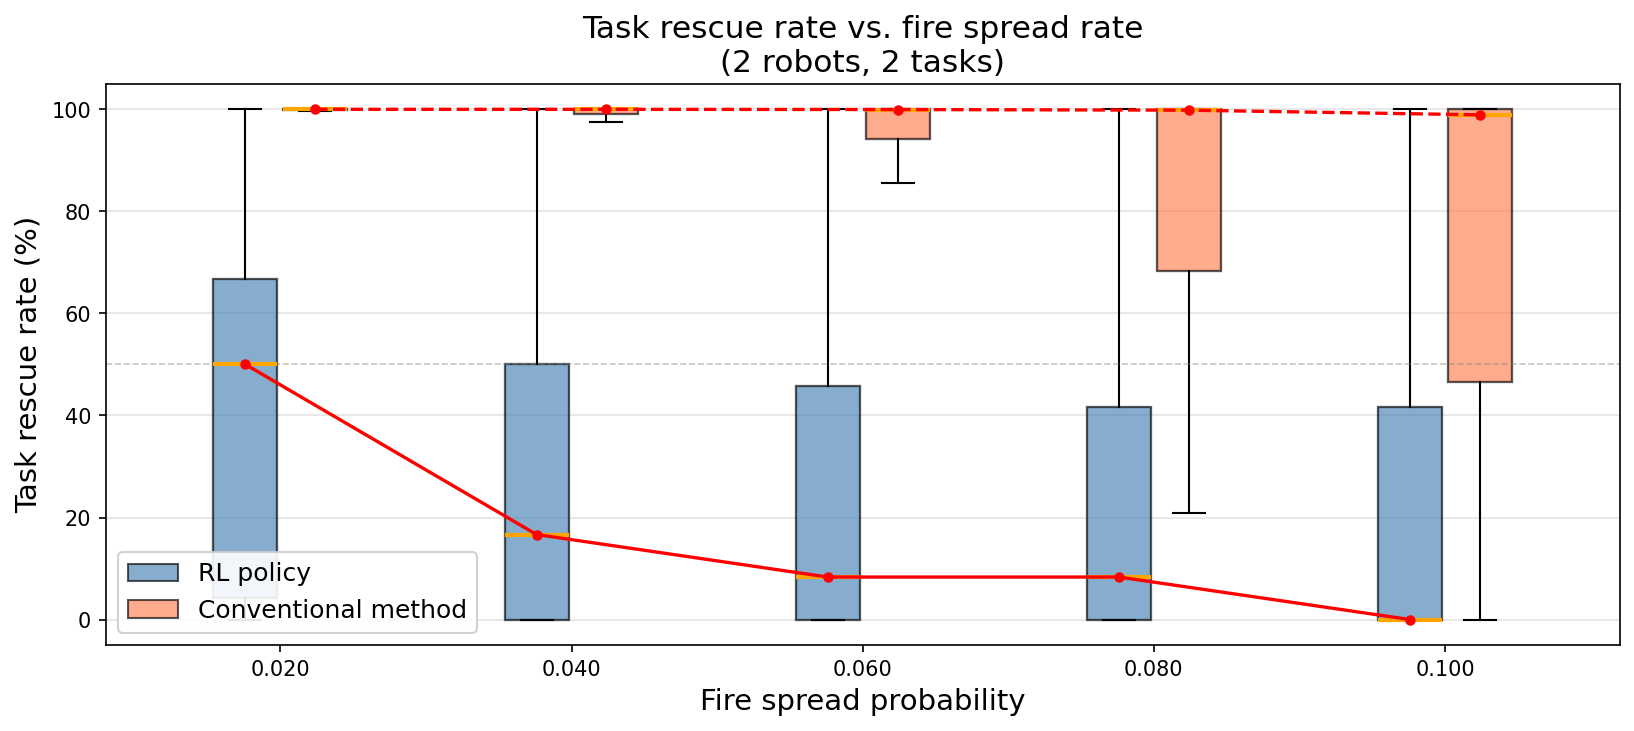
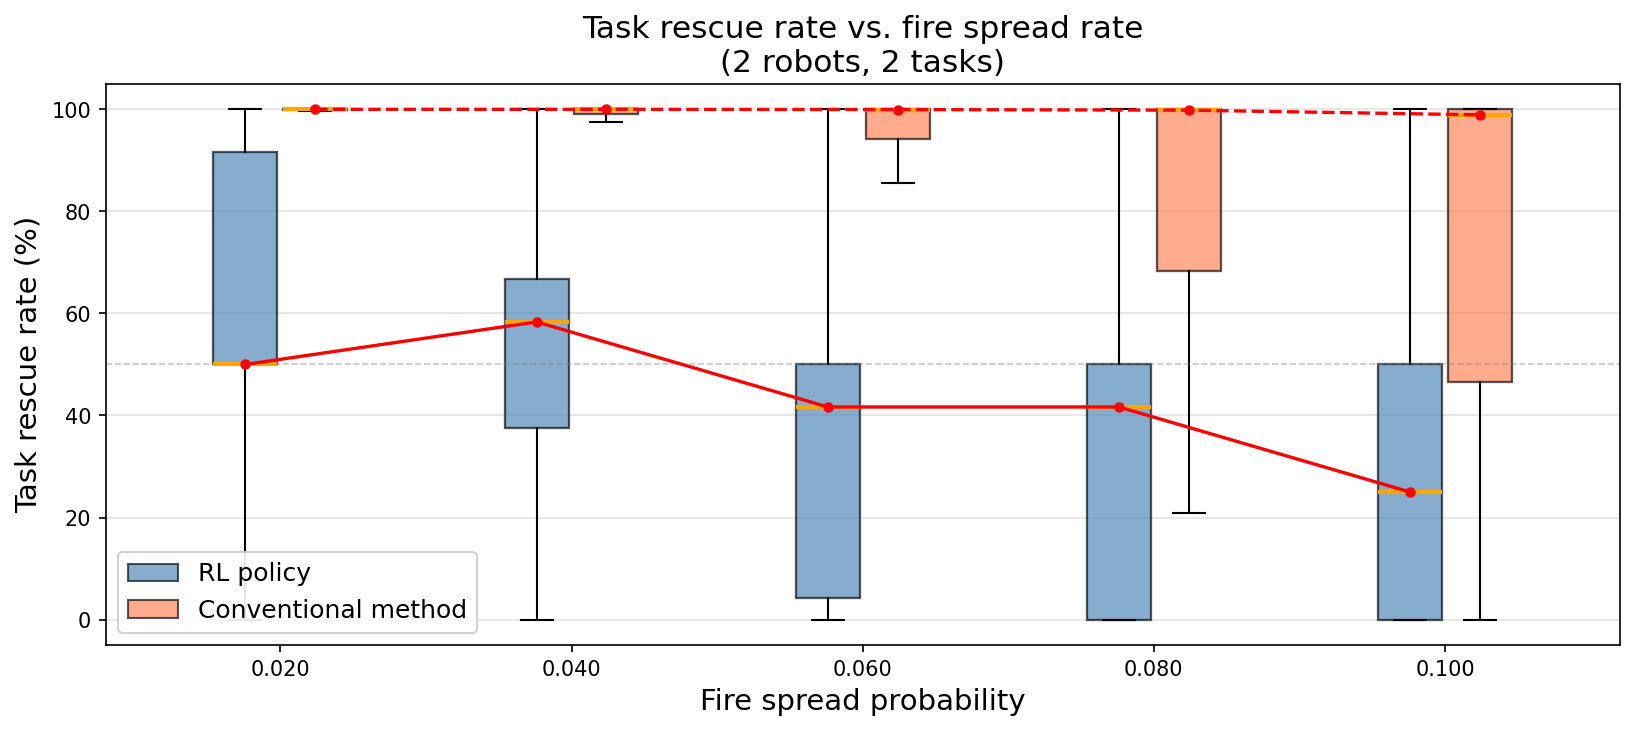
Update the mc test boxplots

diff --git a/monte_carlo_analysis.py b/monte_carlo_analysis.py
@@ -279,27 +279,18 @@ def test_tasks(n_episodes, max_steps, seed, task_counts, out_dir, n_realizations
 
 def _save_csv(data_dict, var_col, n_tasks, out_path, label_fmt="{}",
               n_realizations=1):
-    """Write per-configuration summary statistics to a CSV file.
+    """Write one row per episode (raw data) to a CSV file.
 
     n_tasks  fixed int for hazard/spread tests; pass None for the tasks test,
              in which case each row uses its key value as n_tasks.
 
     Columns
     -------
-    <var_col>           value of the varied parameter
-    num_episodes        episodes run per configuration
-    n_realizations      stochastic rollouts averaged per episode
-    n_tasks             number of tasks per episode
-    rescue_rate_mean    mean(delivered / n_tasks) across episodes  [0–1]
-    rescue_rate_median  median of the same
-    rescue_rate_std     standard deviation
-    rescue_rate_q25     25th percentile
-    rescue_rate_q75     75th percentile
-    tasks_rescued_pct   rescue_rate_mean * 100                     [0–100]
-    tasks_rescued_mean  rescue_rate_mean * n_tasks                 expected tasks/ep
-    full_success_rate   fraction of episodes where ALL tasks delivered
-    full_success_count  full_success_rate * num_episodes
-    failure_count       (1 – full_success_rate) * num_episodes
+    episode           0-based episode index
+    n_tasks           number of tasks in the episode
+    n_realizations    stochastic rollouts averaged to produce tasks_rescued_pct
+    tasks_rescued_pct rescue rate for this episode (%)  [0–100]
+    <var_col>         value of the varied parameter (last column)
     """
     import csv
 
@@ -308,34 +299,19 @@ def _save_csv(data_dict, var_col, n_tasks, out_path, label_fmt="{}",
 
     with open(out_path, "w", newline="") as f:
         writer = csv.writer(f)
-        writer.writerow([
-            var_col, "num_episodes", "n_realizations", "n_tasks",
-            "rescue_rate_mean", "rescue_rate_median", "rescue_rate_std",
-            "rescue_rate_q25", "rescue_rate_q75",
-            "tasks_rescued_pct", "tasks_rescued_mean",
-            "full_success_rate", "full_success_count", "failure_count",
-        ])
+        writer.writerow(["episode", "n_tasks", "n_realizations",
+                         "tasks_rescued_pct", var_col])
         for k in keys:
-            pct  = data_dict[k]          # values in [0, 1]
-            n    = len(pct)
-            nt   = k if n_tasks is None else n_tasks   # per-row n_tasks
-            full_success_rate = float(np.mean(pct >= 1.0 - 1e-6))
-            writer.writerow([
-                label_fmt.format(k),
-                n,
-                n_realizations,
-                nt,
-                f"{pct.mean():.6f}",
-                f"{np.median(pct):.6f}",
-                f"{pct.std():.6f}",
-                f"{np.percentile(pct, 25):.6f}",
-                f"{np.percentile(pct, 75):.6f}",
-                f"{pct.mean() * 100:.4f}",
-                f"{pct.mean() * nt:.4f}",
-                f"{full_success_rate:.6f}",
-                f"{full_success_rate * n:.4f}",
-                f"{(1 - full_success_rate) * n:.4f}",
-            ])
+            pct = data_dict[k]          # values in [0, 1]
+            nt  = k if n_tasks is None else n_tasks
+            for ep, val in enumerate(pct):
+                writer.writerow([
+                    ep,
+                    nt,
+                    n_realizations,
+                    f"{val * 100:.4f}",
+                    label_fmt.format(k),
+                ])
 
     print(f"  Saved → {out_path}")
 

diff --git a/plot_comparison.py b/plot_comparison.py
@@ -3,23 +3,25 @@
 For each test (hazards / spread / tasks) both methods are drawn at the same
 x-position, offset slightly left (RL) and right (traditional).
 
-RL boxes     — proper quartiles from monte_carlo_analysis.py output CSVs.
-Traditional  — from raw data CSVs where each row is a trial with a specific parameter value (e.g. hazard_count) and a per-trial rescue percentage (tasks_rescued_pct).
+Both RL and traditional CSVs use the same raw per-episode format:
+    episode, n_tasks, n_realizations, tasks_rescued_pct, <param_col>
+where <param_col> is the last column (the varied parameter).
+True quartiles are computed directly from the per-episode rows.
 
 Median connection lines
   RL          — red solid  line through RL medians
-  Traditional — red dashed line through traditional means
+  Traditional — red dashed line through traditional medians
 
 Usage
 -----
     python plot_comparison.py                      # auto-discovers files
     python plot_comparison.py \\
         --rl-hazards  mc_results/hazards_results.csv \\
-        --tr-hazards  mc_results/hazard_count_success_summary.csv \\
+        --tr-hazards  mc_results/hazard_count_vs_success_raw.csv \\
         --rl-spread   mc_results/spread_results.csv \\
-        --tr-spread   mc_results/pf_success_summary.csv \\
+        --tr-spread   mc_results/pf_vs_success_raw.csv \\
         --rl-tasks    mc_results/tasks_results.csv \\
-        --tr-tasks    mc_results/task_count_success_summary.csv \\
+        --tr-tasks    mc_results/task_count_vs_success_raw.csv \\
         --out-dir     mc_results
 """
 
@@ -50,30 +52,6 @@ def _normalise_key(s):
         return float(s)
     except ValueError:
         return s
-
-
-def _read_rl_csv(path):
-    """Return dict {normalised_key → bxp_stats_dict (values in %)}.
-
-    RL CSV has rescue_rate_q25 / q75 / median columns.
-    """
-    rows = {}
-    with open(path) as f:
-        for r in csv.DictReader(f):
-            key = _normalise_key(list(r.values())[0])
-            med = float(r["rescue_rate_median"]) * 100
-            q1  = float(r["rescue_rate_q25"])   * 100
-            q3  = float(r["rescue_rate_q75"])   * 100
-            iqr = q3 - q1
-            rows[key] = {
-                "med":    med,
-                "q1":     q1,
-                "q3":     q3,
-                "whislo": max(0.0,   q1 - 1.5 * iqr),
-                "whishi": min(100.0, q3 + 1.5 * iqr),
-                "fliers": [],
-            }
-    return rows
 
 
 def _read_trad_csv(path):
@@ -262,7 +240,7 @@ def main():
     if rl_hazards and tr_hazards and os.path.isfile(rl_hazards) and os.path.isfile(tr_hazards):
         print(f"Hazards:  RL={rl_hazards}  Traditional={tr_hazards}")
         _comparison_plot(
-            _read_rl_csv(rl_hazards),
+            _read_trad_csv(rl_hazards),
             _read_trad_csv(tr_hazards),
             xlabel    = "Number of initial hazards",
             title     = "Task rescue rate vs. number of hazards\n(2 robots, 2 tasks)",
@@ -275,7 +253,7 @@ def main():
     if rl_spread and tr_spread and os.path.isfile(rl_spread) and os.path.isfile(tr_spread):
         print(f"Spread:   RL={rl_spread}  Traditional={tr_spread}")
         _comparison_plot(
-            _read_rl_csv(rl_spread),
+            _read_trad_csv(rl_spread),
             _read_trad_csv(tr_spread),
             xlabel    = "Fire spread probability",
             title     = "Task rescue rate vs. fire spread rate\n(2 robots, 2 tasks)",
@@ -289,7 +267,7 @@ def main():
     if rl_tasks and tr_tasks and os.path.isfile(rl_tasks) and os.path.isfile(tr_tasks):
         print(f"Tasks:    RL={rl_tasks}  Traditional={tr_tasks}")
         _comparison_plot(
-            _read_rl_csv(rl_tasks),
+            _read_trad_csv(rl_tasks),
             _read_trad_csv(tr_tasks),
             xlabel    = "Number of tasks",
             title     = "Task rescue rate vs. number of tasks\n(2 robots, varying task numbers)",

diff --git a/sycabot_env_jax.py b/sycabot_env_jax.py
@@ -11,7 +11,7 @@ from environment_configs import get_lab_environment_config
 NUM_ROBOTS = 2
 NUM_TASKS = 3
 NUM_EXITS = 5
-NUM_HAZARDS = 2
+NUM_HAZARDS = 1
 
 _X_MIN, _X_MAX = -1.55, 1.55
 _Y_MIN, _Y_MAX = -3.10, 3.10